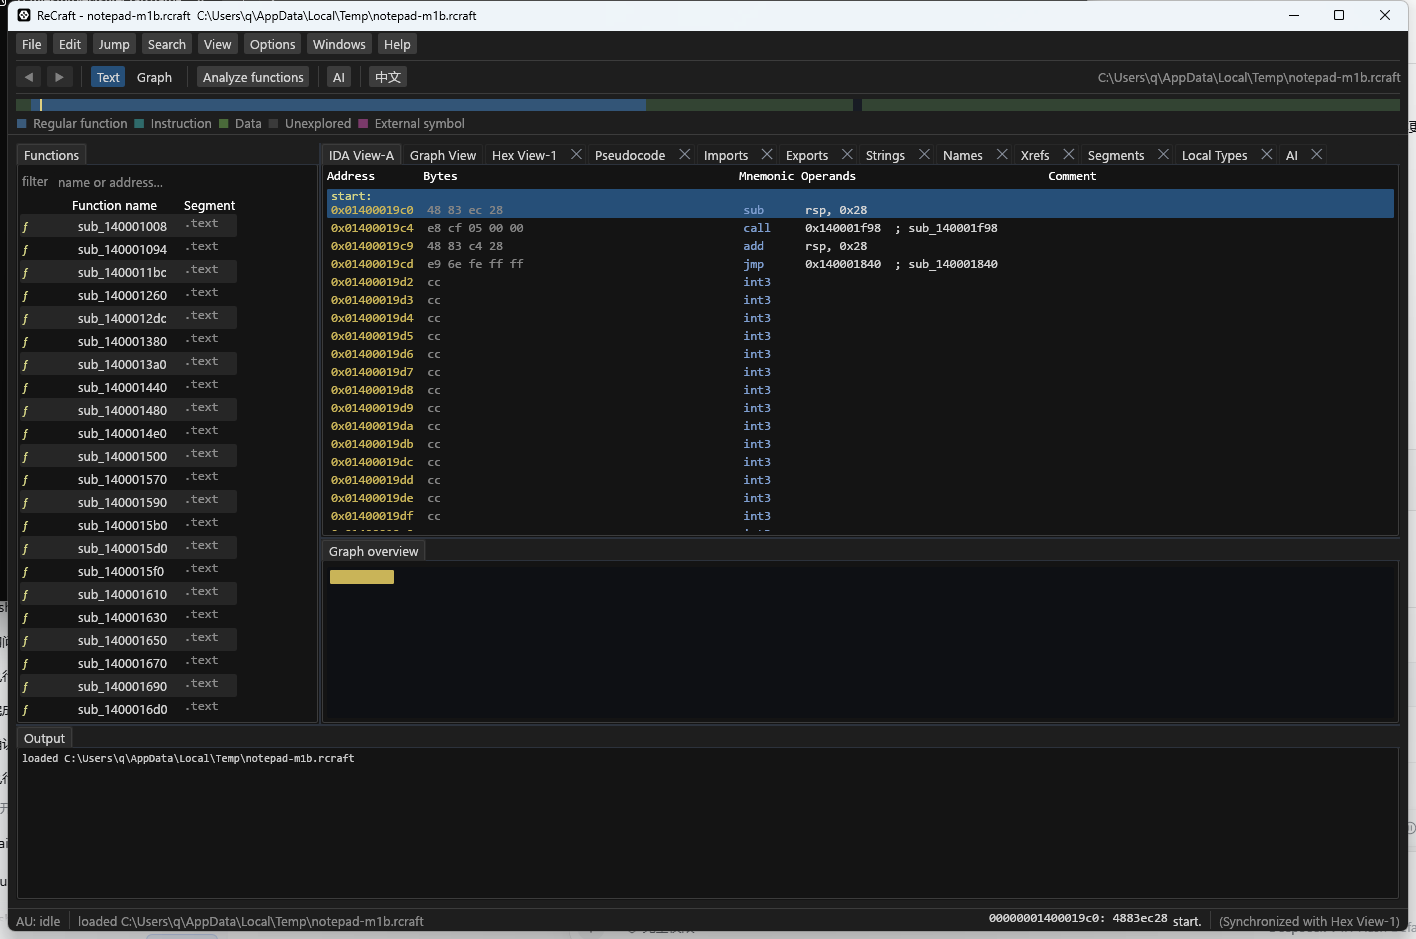
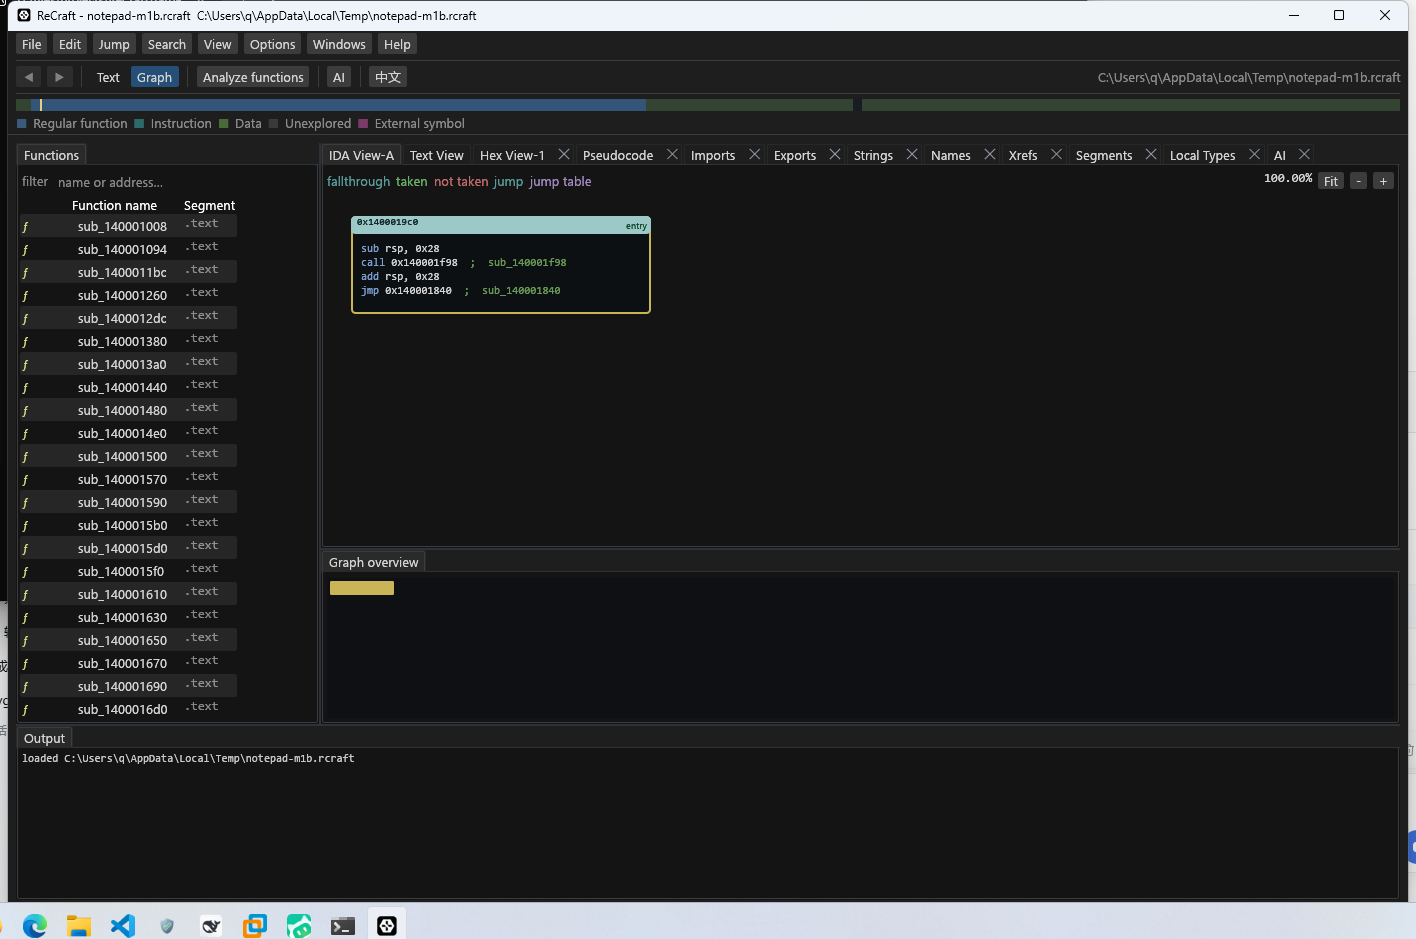
feat(ui): IDA layout step 4 - graph view and polish
IDA View-A now opens in graph mode like the reference (Text View is the text tab, tabs reordered so IDA View-A is first). Nodes get IDA-style chrome: dark body, teal frame, light header with address and entry marker, coloured mnemonic/operand/comment text; edges are curved, coloured by kind and end in arrowheads. Adds graph zoom controls (Fit/-/+, 50-200%) and a graph status line, retunes the Output height (~18%) and Functions/Graph-overview split, and bumps the saved layout to version 4. Refreshes docs/images/ida-layout.png and demo/changelog; fmt/clippy/tests/docs/e2e pass.

diff --git a/crates/recraft-ui/src/app.rs b/crates/recraft-ui/src/app.rs
@@ -106,9 +106,10 @@ impl Pane {
     fn title(self) -> (&'static str, &'static str) {
         match self {
             // IDA-style document/panel names from the reference screenshot.
-            Pane::Disasm => ("IDA View-A", "IDA View-A"),
+            // Like IDA, the primary "IDA View-A" starts in graph mode; text is a tab.
+            Pane::Graph => ("IDA View-A", "IDA View-A"),
+            Pane::Disasm => ("Text View", "文本视图"),
             Pane::Pseudo => ("Pseudocode", "伪代码"),
-            Pane::Graph => ("Graph View", "图形视图"),
             Pane::Hex => ("Hex View-1", "十六进制"),
             Pane::Functions => ("Functions", "函数"),
             Pane::Strings => ("Strings", "字符串"),
@@ -262,7 +263,7 @@ struct EditState {
 /// Layout persistence (`%LOCALAPPDATA%\ReCraft\layout.json`). The version is bumped when
 /// the default pane set changes so stale layouts fall back to the new default instead of
 /// resurrecting the old arrangement.
-const LAYOUT_VERSION: u32 = 3;
+const LAYOUT_VERSION: u32 = 4;
 
 #[derive(serde::Serialize, serde::Deserialize)]
 struct SavedLayout {
@@ -462,6 +463,8 @@ pub struct ReCraftApp {
     cfg: Option<recraft_analysis::Cfg>,
     cfg_for: Option<Address>,
     cfg_dirty: bool,
+    /// Graph-view zoom factor (0.5..=2.0), adjusted by the on-pane +/- controls.
+    graph_zoom: f32,
     analysis: Option<AnalysisJob>,
     /// AI rename suggestions (never applied implicitly).
     ai_proposals: Vec<recraft_ai::Proposal>,
@@ -527,6 +530,7 @@ impl Default for ReCraftApp {
             xrefs_dirty: false,
             cfg: None,
             cfg_for: None,
+            graph_zoom: 1.0,
             cfg_dirty: false,
             analysis: None,
             ai_proposals: Vec::new(),
@@ -1707,8 +1711,8 @@ impl ReCraftApp {
             return;
         }
         let mut state = egui_dock::DockState::new(vec![
-            Pane::Disasm,
             Pane::Graph,
+            Pane::Disasm,
             Pane::Hex,
             Pane::Pseudo,
             Pane::Imports,
@@ -1722,13 +1726,17 @@ impl ReCraftApp {
         ]);
         {
             let surface = state.main_surface_mut();
-            // Output window across the bottom.
+            // Output window across the bottom (about 18% like the IDA reference).
             let [top, _output] =
-                surface.split_below(egui_dock::NodeIndex::root(), 0.78, vec![Pane::Output]);
+                surface.split_below(egui_dock::NodeIndex::root(), 0.82, vec![Pane::Output]);
             // Functions window with a graph overview underneath it.
             let [left, _docs] = surface.split_left(top, 0.22, vec![Pane::Functions]);
             let [_functions, _overview] =
-                surface.split_below(left, 0.68, vec![Pane::GraphOverview]);
+                surface.split_below(left, 0.74, vec![Pane::GraphOverview]);
+        }
+        // IDA shows the graph by default; Text remains one click away.
+        if let Some(path) = state.find_tab(&Pane::Graph) {
+            let _ = state.set_active_tab(path);
         }
         self.dock = Some(state);
     }
@@ -2582,6 +2590,8 @@ impl ReCraftApp {
         }
     }
 
+    /// IDA-style graph view: basic-block nodes with teal frames and headers, curved
+    /// coloured edges with arrowheads, entry marker, zoom controls and a status line.
     fn graph_view(&mut self, ui: &mut egui::Ui, action: &mut Action) {
         self.tab = Tab::Graph;
         let Some(cfg) = self.cfg.clone() else {
@@ -2595,39 +2605,80 @@ impl ReCraftApp {
             ui.weak(self.t("function has no decodable blocks", "函数没有可解码的基本块"));
             return;
         }
-        let layers = recraft_analysis::layers(&cfg);
-        const NODE_W: f32 = 250.0;
-        const GAP_X: f32 = 110.0;
-        const GAP_Y: f32 = 22.0;
-        let column_count = layers.iter().copied().max().unwrap_or(0) + 1;
-        let mut column_y = vec![20.0f32; column_count];
-        let mut local: Vec<egui::Rect> = Vec::with_capacity(cfg.blocks.len());
-        for (index, block) in cfg.blocks.iter().enumerate() {
-            let layer = layers[index];
-            let height = 26.0 + block.insns.len().min(8) as f32 * 14.0;
-            let x = 20.0 + layer as f32 * (NODE_W + GAP_X);
-            let y = column_y[layer];
-            column_y[layer] = y + height + GAP_Y;
-            local.push(egui::Rect::from_min_size(
-                egui::pos2(x, y),
-                egui::vec2(NODE_W, height),
-            ));
-        }
-        let canvas_w = 20.0 + column_count as f32 * (NODE_W + GAP_X);
-        let canvas_h = column_y.iter().copied().fold(20.0f32, f32::max) + 20.0;
-
+        let edge_color = |kind: recraft_analysis::EdgeKind| match kind {
+            recraft_analysis::EdgeKind::Fallthrough => Color32::from_rgb(0x5a, 0x9a, 0x9a),
+            recraft_analysis::EdgeKind::Taken => Color32::from_rgb(0x6a, 0xb0, 0x6a),
+            recraft_analysis::EdgeKind::NotTaken => Color32::from_rgb(0xc0, 0x6a, 0x6a),
+            recraft_analysis::EdgeKind::Unconditional => Color32::from_rgb(0x5a, 0x9a, 0x9a),
+            recraft_analysis::EdgeKind::JumpTable => Color32::from_rgb(0xa0, 0x8a, 0xc0),
+        };
         ui.horizontal(|ui| {
-            ui.weak(self.t("edges:", "边:"));
             for (label, color) in [
-                ("fallthrough", Color32::GRAY),
-                ("taken", Color32::from_rgb(0x6a, 0xb0, 0x6a)),
-                ("not taken", Color32::from_rgb(0xd0, 0x7a, 0x7a)),
-                ("jump", Color32::from_rgb(0x6a, 0x8f, 0xb5)),
-                ("jump table", Color32::from_rgb(0xb0, 0x8a, 0xd0)),
+                (
+                    "fallthrough",
+                    edge_color(recraft_analysis::EdgeKind::Fallthrough),
+                ),
+                ("taken", edge_color(recraft_analysis::EdgeKind::Taken)),
+                (
+                    "not taken",
+                    edge_color(recraft_analysis::EdgeKind::NotTaken),
+                ),
+                (
+                    "jump",
+                    edge_color(recraft_analysis::EdgeKind::Unconditional),
+                ),
+                (
+                    "jump table",
+                    edge_color(recraft_analysis::EdgeKind::JumpTable),
+                ),
             ] {
                 ui.colored_label(color, label);
             }
+            ui.with_layout(egui::Layout::right_to_left(egui::Align::Center), |ui| {
+                if ui.small_button("+").on_hover_text("Zoom in").clicked() {
+                    self.graph_zoom = (self.graph_zoom + 0.1).min(2.0);
+                }
+                if ui.small_button("-").on_hover_text("Zoom out").clicked() {
+                    self.graph_zoom = (self.graph_zoom - 0.1).max(0.5);
+                }
+                if ui.small_button("Fit").on_hover_text("Reset zoom").clicked() {
+                    self.graph_zoom = 1.0;
+                }
+                ui.monospace(format!("{:.2}%", self.graph_zoom * 100.0));
+            });
         });
+        let zoom = self.graph_zoom;
+        let node_w = 300.0 * zoom;
+        let header_h = 18.0 * zoom;
+        let line_h = 14.0 * zoom;
+        let text_size = 11.0 * zoom;
+        let gap_x = 120.0 * zoom;
+        let gap_y = 24.0 * zoom;
+        let pad = 10.0 * zoom;
+        let max_lines = 10usize;
+        let layer_of = recraft_analysis::layers(&cfg);
+        let column_count = layer_of.iter().copied().max().unwrap_or(0) + 1;
+        let mut column_y = vec![24.0 * zoom; column_count];
+        let mut local: Vec<egui::Rect> = Vec::with_capacity(cfg.blocks.len());
+        for (index, block) in cfg.blocks.iter().enumerate() {
+            let layer = layer_of[index];
+            let shown = block.insns.len().min(max_lines);
+            let height = header_h + shown as f32 * line_h + pad * 2.0 + 4.0 * zoom;
+            let x = 24.0 * zoom + layer as f32 * (node_w + gap_x);
+            let y = column_y[layer];
+            column_y[layer] = y + height + gap_y;
+            local.push(egui::Rect::from_min_size(
+                egui::pos2(x, y),
+                egui::vec2(node_w, height),
+            ));
+        }
+        let canvas_w = 48.0 * zoom + column_count as f32 * (node_w + gap_x);
+        let canvas_h = column_y.iter().copied().fold(24.0f32 * zoom, f32::max) + 24.0 * zoom;
+        let selected = self
+            .disasm_rows
+            .get(self.selected)
+            .map(|line| line.addr.get());
+        let mono = FontId::monospace(text_size);
         egui::ScrollArea::both()
             .auto_shrink([false, false])
             .show(ui, |ui| {
@@ -2639,6 +2690,7 @@ impl ReCraftApp {
                     Sense::hover(),
                 );
                 let origin = response.rect.min.to_vec2();
+                // Edges first, so frames paint on top.
                 for block in &cfg.blocks {
                     for &(target, kind) in &block.edges {
                         let Some(target_rect) = local.get(target) else {
@@ -2646,21 +2698,7 @@ impl ReCraftApp {
                         };
                         let from = local[block.index].right_center() + origin;
                         let to = target_rect.left_center() + origin;
-                        let color = match kind {
-                            recraft_analysis::EdgeKind::Fallthrough => Color32::GRAY,
-                            recraft_analysis::EdgeKind::Taken => {
-                                Color32::from_rgb(0x6a, 0xb0, 0x6a)
-                            }
-                            recraft_analysis::EdgeKind::NotTaken => {
-                                Color32::from_rgb(0xd0, 0x7a, 0x7a)
-                            }
-                            recraft_analysis::EdgeKind::Unconditional => {
-                                Color32::from_rgb(0x6a, 0x8f, 0xb5)
-                            }
-                            recraft_analysis::EdgeKind::JumpTable => {
-                                Color32::from_rgb(0xb0, 0x8a, 0xd0)
-                            }
-                        };
+                        let color = edge_color(kind);
                         let bend = ((to.x - from.x).abs() * 0.4).max(40.0);
                         painter.add(egui::epaint::CubicBezierShape::from_points_stroke(
                             [
@@ -2671,42 +2709,86 @@ impl ReCraftApp {
                             ],
                             false,
                             Color32::TRANSPARENT,
-                            egui::Stroke::new(1.4, color),
+                            egui::Stroke::new((1.2 * zoom).max(1.0), color),
                         ));
-                        painter.circle_filled(to, 3.0, color);
+                        // Arrowhead pointing into the target block.
+                        let dir = (to - egui::pos2(to.x - bend, to.y)).normalized();
+                        let size = 5.0 * zoom;
+                        let normal = egui::vec2(-dir.y, dir.x);
+                        let tip = to;
+                        let base = to - dir * size;
+                        painter.add(egui::epaint::PathShape::convex_polygon(
+                            vec![tip, base + normal * size * 0.6, base - normal * size * 0.6],
+                            color,
+                            egui::Stroke::NONE,
+                        ));
                     }
                 }
                 for (index, block) in cfg.blocks.iter().enumerate() {
                     let rect = local[index].translate(origin);
                     let is_entry = index == cfg.entry;
-                    painter.rect_filled(rect, 6.0, Color32::from_rgb(0x22, 0x27, 0x30));
+                    let current = selected
+                        .is_some_and(|addr| addr >= block.start.get() && addr < block.end.get());
+                    // IDA-style frame: dark body, teal border, light header bar.
+                    painter.rect_filled(rect, 4.0, Color32::from_rgb(0x0d, 0x10, 0x12));
+                    let border = if current {
+                        C_ADDR
+                    } else {
+                        Color32::from_rgb(0x4a, 0x8f, 0x8f)
+                    };
                     painter.rect_stroke(
                         rect,
-                        6.0,
-                        egui::Stroke::new(
-                            1.0,
-                            if is_entry {
-                                Color32::from_rgb(0xd0, 0xa0, 0x60)
-                            } else {
-                                Color32::from_rgb(0x3a, 0x42, 0x50)
-                            },
-                        ),
+                        4.0,
+                        egui::Stroke::new(if current { 2.0 } else { 1.0 }, border),
                         egui::StrokeKind::Inside,
                     );
+                    let header =
+                        egui::Rect::from_min_size(rect.min, egui::vec2(rect.width(), header_h));
+                    painter.rect_filled(header, 4.0, Color32::from_rgb(0x9c, 0xc8, 0xc8));
                     painter.text(
-                        rect.min + egui::vec2(8.0, 4.0),
+                        header.min + egui::vec2(6.0, 1.0),
                         egui::Align2::LEFT_TOP,
                         format!("{:#x}", block.start.get()),
-                        FontId::monospace(11.0),
-                        C_ADDR,
+                        FontId::monospace(text_size * 0.92),
+                        Color32::from_rgb(0x14, 0x2a, 0x2a),
                     );
-                    for (line_index, insn) in block.insns.iter().take(8).enumerate() {
+                    if is_entry {
                         painter.text(
-                            rect.min + egui::vec2(8.0, 20.0 + line_index as f32 * 14.0),
-                            egui::Align2::LEFT_TOP,
-                            truncate_chars(&insn.text, 44),
-                            FontId::monospace(11.0),
-                            Color32::from_gray(0xcf),
+                            header.right_center() - egui::vec2(4.0, 0.0),
+                            egui::Align2::RIGHT_CENTER,
+                            "entry",
+                            FontId::proportional(text_size * 0.85),
+                            Color32::from_rgb(0x14, 0x4a, 0x2a),
+                        );
+                    }
+                    for (line_index, insn) in block.insns.iter().take(max_lines).enumerate() {
+                        let mut job = LayoutJob::default();
+                        let (mnemonic, operands) = match insn.text.split_once(' ') {
+                            Some((mnemonic, rest)) => (mnemonic, rest),
+                            None => (insn.text.as_str(), ""),
+                        };
+                        append(&mut job, mnemonic, C_MNEMONIC, &mono);
+                        append(&mut job, " ", C_TEXT, &mono);
+                        if let Some((operands, comment)) = operands.split_once(';') {
+                            append(&mut job, operands, C_TEXT, &mono);
+                            append(&mut job, &format!("; {comment}"), C_COMMENT, &mono);
+                        } else {
+                            append(&mut job, operands, C_TEXT, &mono);
+                        }
+                        let galley = painter.layout_job(job);
+                        painter.galley(
+                            rect.min + egui::vec2(pad, header_h + pad + line_index as f32 * line_h),
+                            galley,
+                            C_TEXT,
+                        );
+                    }
+                    if block.insns.len() > max_lines {
+                        painter.text(
+                            rect.left_bottom() + egui::vec2(pad, -pad - line_h * 0.2),
+                            egui::Align2::LEFT_BOTTOM,
+                            format!("… {} more", block.insns.len() - max_lines),
+                            FontId::proportional(text_size * 0.85),
+                            Color32::from_gray(0x90),
                         );
                     }
                     let response = ui.interact(rect, ui.id().with(("cfg", index)), Sense::click());
@@ -2727,6 +2809,14 @@ impl ReCraftApp {
                     }
                 }
             });
+        ui.separator();
+        ui.horizontal(|ui| {
+            ui.weak(format!("{:.2}%", zoom * 100.0));
+            ui.separator();
+            ui.weak(format!("{} blocks", cfg.blocks.len()));
+            ui.separator();
+            ui.weak(self.t("(Synchronized with Hex View-1)", "（与 Hex View-1 同步）"));
+        });
     }
 
     /// First-run experience: quick actions, recent projects and a shortcut cheat sheet.
@@ -3883,15 +3973,6 @@ fn xref_kind_name(kind: i64) -> &'static str {
         recraft_analysis::XREF_DATA => "data",
         _ => "other",
     }
-}
-
-fn truncate_chars(text: &str, max: usize) -> String {
-    let mut chars: Vec<char> = text.chars().collect();
-    if chars.len() > max {
-        chars.truncate(max);
-        chars.push('…');
-    }
-    chars.into_iter().collect()
 }
 
 /// Background worker: its own `Session` (separate SQLite connection) keeps the UI

diff --git a/docs/DEMO.md b/docs/DEMO.md
@@ -58,9 +58,10 @@ applied 3 proposal(s) through the command bus (undoable)
 2. `F5` 运行分析（后台线程，可取消）。工作区按 IDA 布局组织：顶部**菜单栏**（File/Edit/Jump/
    Search/View/Options/Windows/Help）+ **工具栏**（后退/前进、Text/Graph、Analyze、AI、语言、
    项目路径）+ **全局导航带与图例**；左侧 **Functions**（Function name / Segment 两列，带函数
-   图标）及其下方 **Graph overview**；右侧**文档标签区**（IDA View-A、Graph View、Hex View-1、
-   Pseudocode、Imports、Exports、Strings、Names、Xrefs、Segments、Local Types、AI）；底部
-   **Output** 窗口；最下方为 **AU/状态栏**（地址、字节、函数、与 Hex 同步提示）。
+   图标）及其下方 **Graph overview**；右侧**文档标签区**（**IDA View-A 图形视图（默认）**、
+   Text View、Hex View-1、Pseudocode、Imports、Exports、Strings、Names、Xrefs、Segments、
+   Local Types、AI）；底部 **Output** 窗口；最下方为 **AU/状态栏**（地址、字节、函数、与 Hex
+   同步提示）。图形视图支持节点块/箭头连线与 `Fit`/`-`/`+` 缩放（50–200%）。
    布局可拖动分屏/合并，自动保存到 `%LOCALAPPDATA%\ReCraft\layout.json`，Views 菜单可聚焦
    pane 或 Reset layout。快捷键：`F2` Functions、`F3` Names、`F4` Strings、`F6` Imports、
    `F7` Xrefs、`F8` Segments、`F9` Hex、`F10` AI、`F11` Local Types。

diff --git a/CHANGELOG.md b/CHANGELOG.md
@@ -9,6 +9,16 @@ and this project adheres to [Semantic Versioning](https://semver.org/spec/v2.0.0
 
 ### Added
 
+- IDA-layout step 4 (graph view + polish): **IDA View-A now opens in graph mode** like the
+  reference (Text View is the text document tab). Graph nodes use IDA-style chrome — dark
+  bodies, teal frames, light header bars with the block address and an `entry` marker —
+  with per-instruction mnemonic/operand/comment colours; edges are curved, coloured by
+  kind (fallthrough/jump teal, taken green, not-taken red, jump table violet) and end in
+  arrowheads. Adds zoom controls (`Fit`, `-`, `+`, 50–200 %) in the graph toolbar and a
+  graph status line (zoom/blocks/Hex sync); Output height is ~18 % like the reference and
+  the Functions/Graph-overview split was retuned. Saved layout version bumped to 4.
+  Screenshot refreshed at `docs/images/ida-layout.png`, demo/changelog updated.
+
 - IDA-layout step 3 (disassembly rendering): drops the separate "Name" column and renders
   names as IDA-style inline labels (`start:`) on a dedicated label line above the
   instruction; columns are now Address / Bytes / Mnemonic / Operands / Comment with IDA
